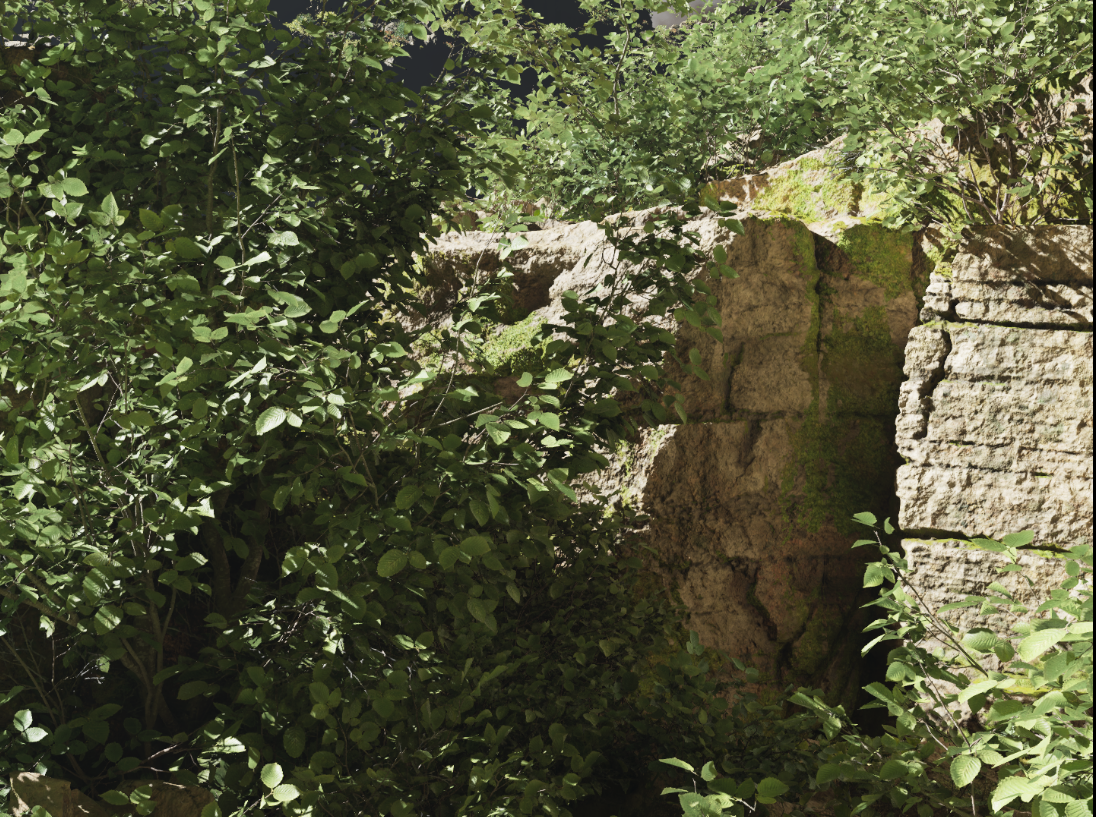
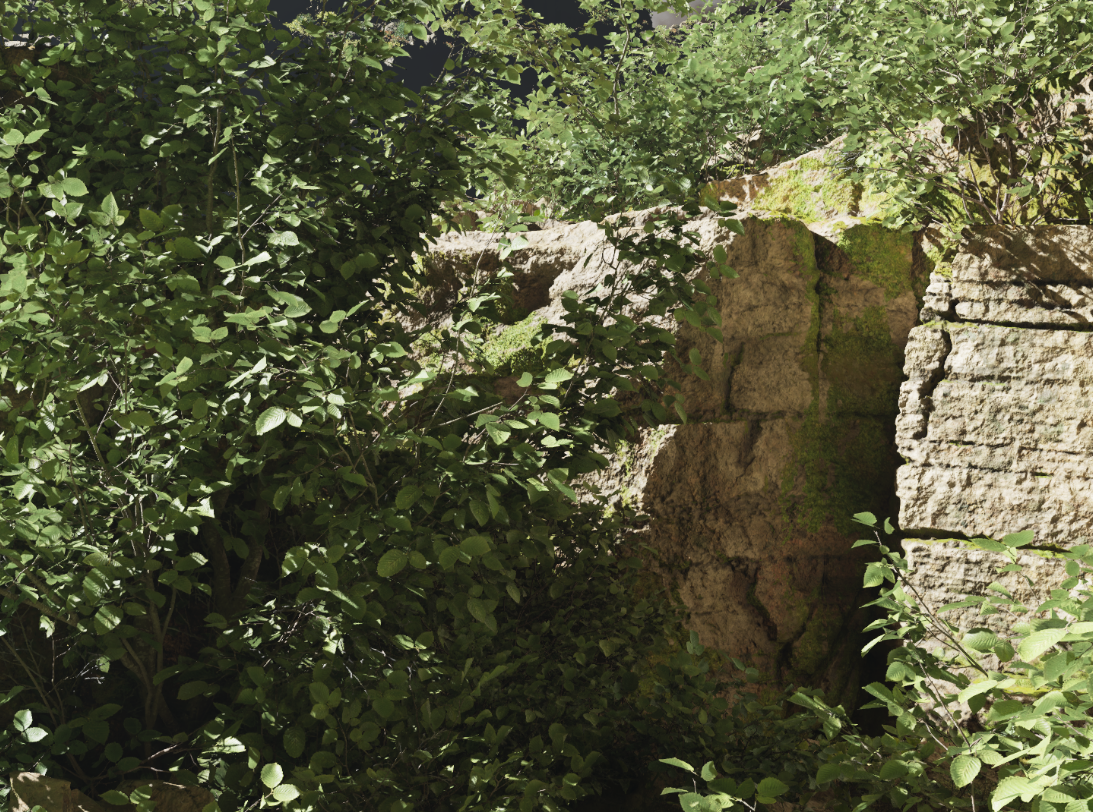
added more comparisons

diff --git a/docs/index.html b/docs/index.html
@@ -82,13 +82,56 @@
                 flattening to a single value.
             </figcaption>
         </figure>
+
+        <!-- ---- Comparison 3: foliage detail, graded ---- -->
+        <figure class="compare-figure">
+            <div class="compare" data-label-a="Plugin OFF" data-label-b="Plugin ON">
+                <img class="compare-img compare-base" src="images/p_on_foliage.png"
+                     alt="Foliage and rock face rendered with the ALEV4 simulation enabled, graded in DaVinci Resolve.">
+                <img class="compare-img compare-overlay" src="images/p_off_foliage.png"
+                     alt="The same foliage and rock face rendered without the ALEV4 simulation.">
+            </div>
+            <figcaption>
+                <strong>Foliage and rock face, plugin off vs. plugin on &mdash; both graded in DaVinci Resolve.</strong>
+                Drag the handle to wipe between the two renders. Because both frames received a grade, their
+                overall exposure matches closely and neither clips; the difference is in how the tonal range is
+                distributed. The simulated sensor places its midtones lower while carrying the sunlit rock and
+                leaf highlights higher, so the separation between shade and direct sun is wider rather than
+                compressed toward a single mid value.
+            </figcaption>
+        </figure>
+
+        <!-- ---- Comparison 4: colour chart ---- -->
+        <figure class="compare-figure">
+            <div class="compare" data-label-a="Plugin OFF" data-label-b="Plugin ON">
+                <img class="compare-img compare-base" src="images/p_on_chart.png"
+                     alt="A colour chart rendered through the ALEV4 simulation, showing the desaturated log encoding and lifted shadow patches.">
+                <img class="compare-img compare-overlay" src="images/p_off_chart.png"
+                     alt="The same colour chart rendered without the ALEV4 simulation.">
+            </div>
+            <figcaption>
+                <strong>Colour chart, plugin off vs. plugin on &mdash; ungraded.</strong>
+                Drag the handle to wipe between the two renders. A reference chart isolates the colour and
+                transfer-function behaviour from scene content. With the simulation enabled the patches sit
+                roughly 30% less saturated: the colours are being carried in the wider AWG4 container and
+                encoded to LogC4, so they occupy less of the display range before a grade is applied, which is
+                the expected appearance of log material rather than a loss of colour. The grey ramp along the
+                bottom shows the matching tonal redistribution &mdash; the darker patches lift by up to 25 code
+                values while the brightest patch comes down slightly, spending precision on the shadows and
+                holding highlight headroom back for the grade.
+            </figcaption>
+        </figure>
     </section>
 
     <!-- ============================= BENEFITS ============================= -->
     <section id="benefits">
         <h2>Benefits</h2>
         <div class="panel">
-            <p class="todo">To be written.</p>
+            <p class="todo">The core benefit is pipeline compatibility: footage rendered through the plugin behaves like 
+			ARRI camera footage in post-production. CG shots can be graded alongside real ALEXA material using the same LogC4 
+			transforms and LUTs, colour-matched without hand-tuning, and pushed around in the grade with log latitude — 
+			overexposed highlights that a default render would clip remain recoverable. For virtual production and VFX work 
+			that mixes Unreal renders with ARRI capture, the plugin removes the colourist's matching step.</p>
         </div>
     </section>
 
@@ -96,7 +139,12 @@
     <section id="issues">
         <h2>Challenges &amp; Issues Encountered</h2>
         <div class="panel">
-            <p class="todo">To be written.</p>
+            <p class="todo">One issue that surfaced during testing is that the plugin has a defined operating envelope: 
+			it expects manual exposure and a scene exposed with the subject near middle grey, just as a physical camera 
+			does. Pre-built sample worlds often ship with auto-exposure volumes, exposure overrides, and heavy volumetric 
+			atmospherics that modify the light before it reaches the sensor simulation, producing washed-out or mismatched 
+			results. The remedy is to disable those overrides and expose the scene deliberately — the same discipline a 
+			cinematographer applies on set.</p>
         </div>
     </section>
 
@@ -109,8 +157,8 @@
         was also built with AI assistance.
     </p>
     <p class="repo-link">
-        Source code and full project files:
-        <a href="https://github.com/sciausu/ALEV4SIM">github.com/sciausu/ALEV4SIM</a>
+        Source code and full project files [link not open yet]:
+        <a href="https://github.com/sciausu/EECS4080">github.com/sciausu/EECS4080</a>
     </p>
 </footer>
 
